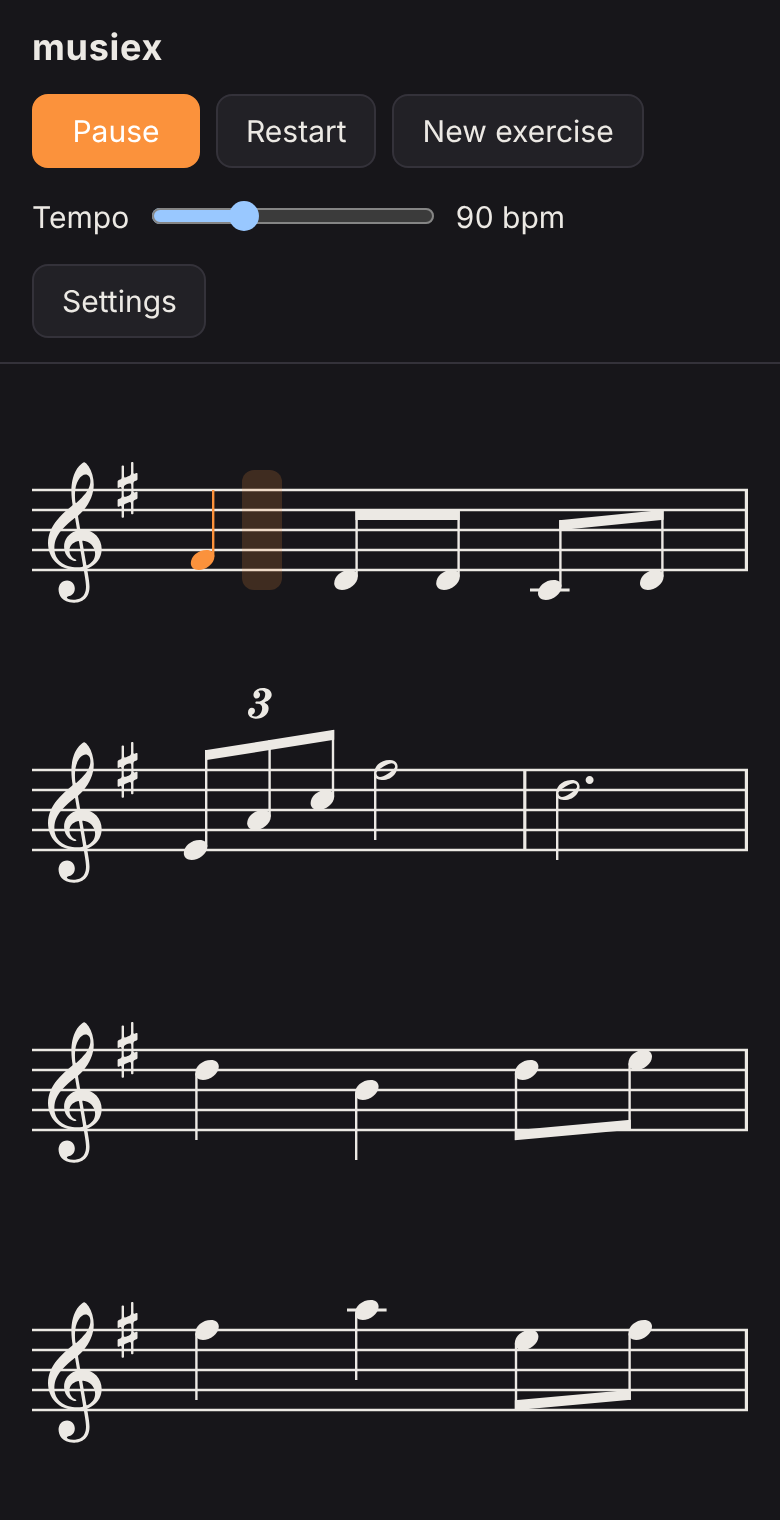
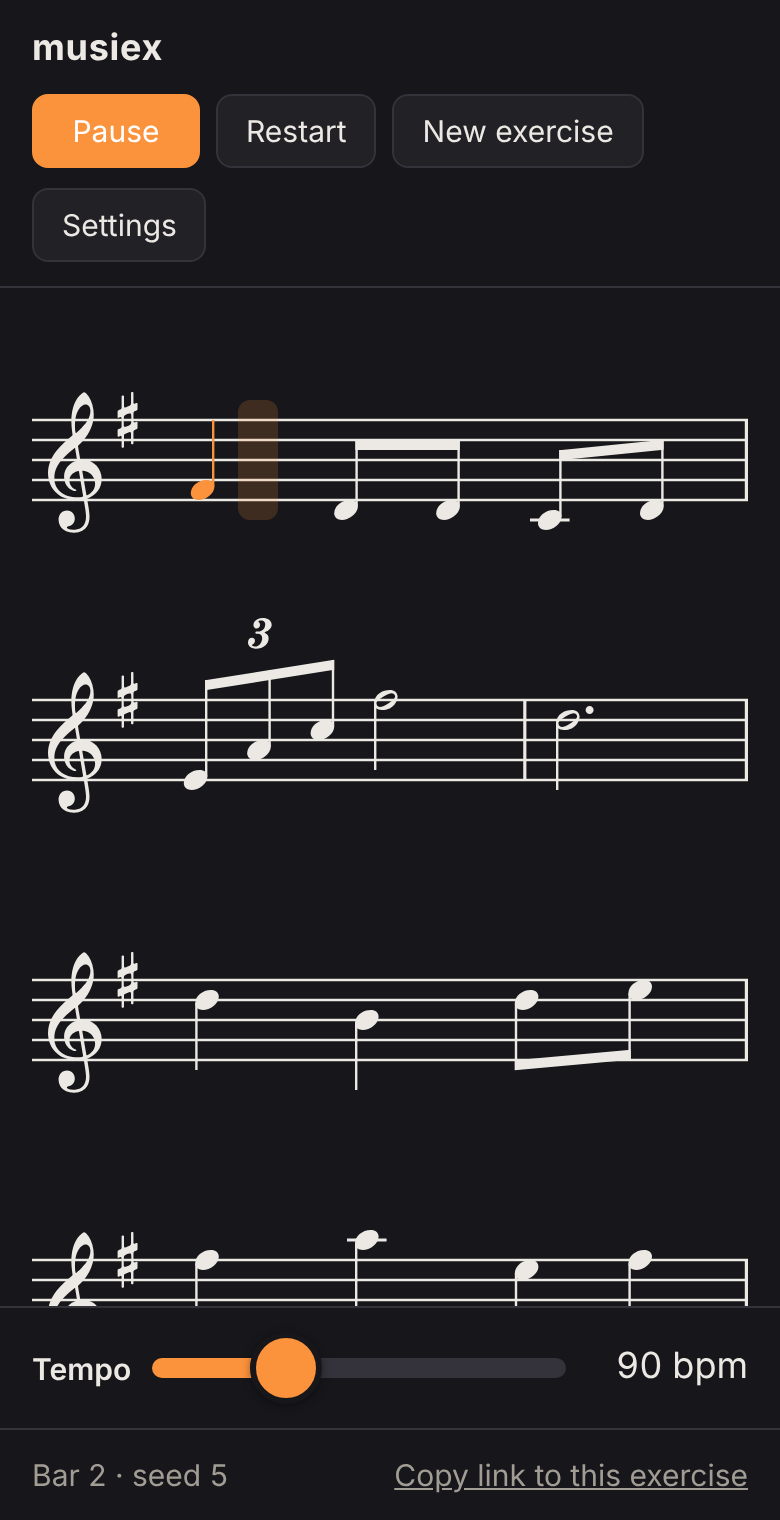
Move the tempo slider to a full-width bar at the bottom
The slider now spans the width of the screen above the status line, with a
large thumb and a filled track, so it is easy to drag on a tablet. The page
fills the screen exactly so the bar stays at the bottom. Screenshots in the
README are refreshed.

Claude-Session: https://claude.ai/code/session_01B2uFTBY34ctWHXuyhamxDm

diff --git a/web/style.css b/web/style.css
@@ -26,7 +26,9 @@ body {
   background: var(--bg);
   color: var(--fg);
   font: 15px/1.4 system-ui, -apple-system, "Segoe UI", sans-serif;
-  min-height: 100vh;
+  /* The page fills the screen exactly, so the tempo bar stays at the bottom. */
+  height: 100vh;
+  height: 100dvh;
   display: flex;
   flex-direction: column;
 }
@@ -52,8 +54,6 @@ button {
 button:hover { border-color: var(--muted); }
 button.primary { background: var(--accent); border-color: var(--accent); color: #fff; min-width: 84px; }
 button.link { background: none; border: none; color: var(--muted); text-decoration: underline; padding: 0; }
-.tempo { display: flex; align-items: center; gap: 8px; }
-.tempo output { min-width: 3.5em; font-variant-numeric: tabular-nums; }
 #settings-toggle { margin-left: auto; }
 .settings[hidden] { display: none; }
 .settings {
@@ -97,6 +97,53 @@ input:invalid { border-color: var(--accent); }
   display: none;
 }
 .system.current .cursor { display: block; }
+/* A full-width tempo slider with a large thumb, easy to drag on a tablet. */
+.tempo { border-top: 1px solid var(--line); flex-wrap: nowrap; gap: 16px; padding: 6px 16px; }
+.tempo span { font-weight: 600; }
+.tempo output { min-width: 4.5em; text-align: right; font-size: 18px; font-variant-numeric: tabular-nums; }
+#tempo {
+  --pct: 14%;
+  flex: 1;
+  min-width: 0;
+  height: 48px;
+  margin: 0;
+  padding: 0;
+  border: none;
+  background: transparent;
+  -webkit-appearance: none;
+  appearance: none;
+  touch-action: none;
+  cursor: pointer;
+}
+#tempo::-webkit-slider-runnable-track {
+  height: 10px;
+  border-radius: 5px;
+  background: linear-gradient(to right, var(--accent) var(--pct), var(--line) var(--pct));
+}
+#tempo::-webkit-slider-thumb {
+  -webkit-appearance: none;
+  width: 36px;
+  height: 36px;
+  margin-top: -13px;
+  border-radius: 50%;
+  border: 3px solid var(--bg);
+  background: var(--accent);
+  box-shadow: 0 1px 4px rgba(0, 0, 0, 0.35);
+}
+#tempo::-moz-range-track {
+  height: 10px;
+  border-radius: 5px;
+  background: linear-gradient(to right, var(--accent) var(--pct), var(--line) var(--pct));
+}
+#tempo::-moz-range-thumb {
+  width: 30px;
+  height: 30px;
+  border-radius: 50%;
+  border: 3px solid var(--bg);
+  background: var(--accent);
+  box-shadow: 0 1px 4px rgba(0, 0, 0, 0.35);
+}
+#tempo:focus-visible { outline: 2px solid var(--accent); outline-offset: 4px; border-radius: 4px; }
 .status { color: var(--muted); border-top: 1px solid var(--line); justify-content: space-between; }
 @media (max-width: 640px) {
   .bar { gap: 10px; }

diff --git a/web/index.html b/web/index.html
@@ -19,11 +19,6 @@
       <button id="restart" title="Back to the start">Restart</button>
       <button id="new" title="A new exercise with the same settings (N)">New exercise</button>
     </div>
-    <label class="tempo">
-      <span>Tempo</span>
-      <input id="tempo" type="range" min="30" max="240" step="1">
-      <output id="tempo-value"></output>
-    </label>
     <button id="settings-toggle" aria-expanded="false" aria-controls="settings">Settings</button>
     <button id="install" title="Install musiex on this device; it then works offline" hidden>Install app</button>
   </header>
@@ -97,6 +92,12 @@
 
   <p id="error" class="error" role="alert" hidden></p>
   <main id="score" class="score" aria-label="Score"></main>
+
+  <label class="bar tempo">
+    <span>Tempo</span>
+    <input id="tempo" type="range" min="30" max="240" step="1">
+    <output id="tempo-value"></output>
+  </label>
 
   <footer class="bar status">
     <span id="where">Press Play to start.</span>

diff --git a/web/app.js b/web/app.js
@@ -69,6 +69,14 @@ function writeForm() {
     else el.value = config[el.name];
   }
   $('tempo').value = config.tempo;
+  showTempo();
+}
+
+/** Shows the tempo next to the slider and fills the slider's track up to it. */
+function showTempo() {
+  const slider = $('tempo');
+  const pct = ((config.tempo - slider.min) / (slider.max - slider.min)) * 100;
+  slider.style.setProperty('--pct', `${pct}%`);
   $('tempo-value').textContent = `${config.tempo} bpm`;
 }
 
@@ -288,7 +296,7 @@ $('new').addEventListener('click', () => {
 });
 $('tempo').addEventListener('input', (e) => {
   config.tempo = Number(e.target.value);
-  $('tempo-value').textContent = `${config.tempo} bpm`;
+  showTempo();
   if (practice) practice.setTempo(config.tempo);
   writeHash();
 });
